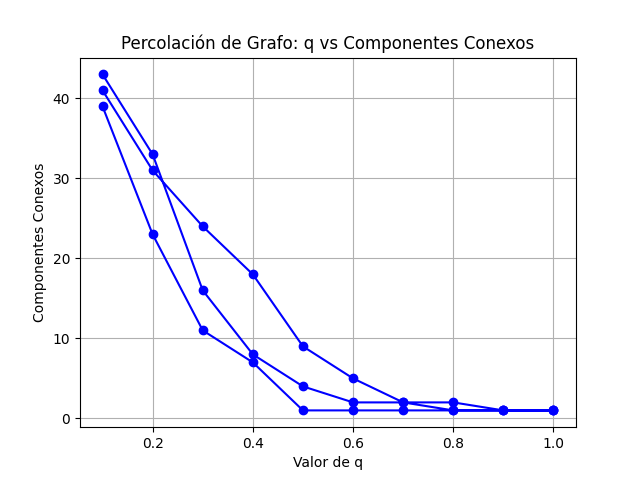
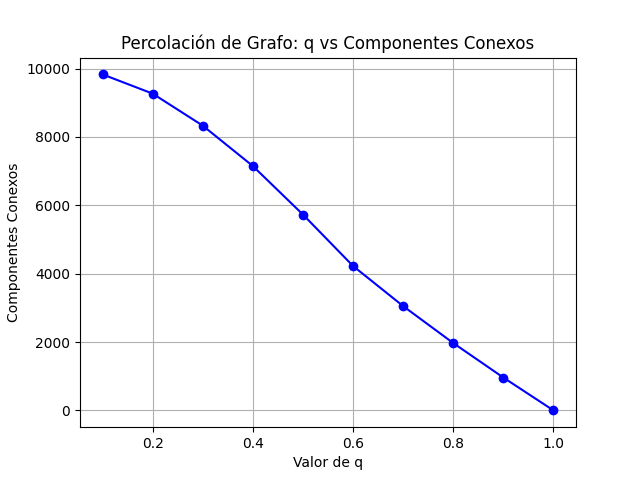
Añadida percolación por nodos

diff --git a/node_percolation.cpp b/node_percolation.cpp
@@ -1,0 +1,124 @@
+#include <iostream>
+#include <vector>
+#include <cstdlib>
+#include <ctime>
+#include <utility>
+#include <fstream>
+#include <sstream>
+#include <unordered_set>
+
+using namespace std;
+
+typedef pair<int, int> Edge;
+
+// Clase para Union-Find (Disjoint Set)
+class UnionFind {
+public:
+    vector<int> parent, size;
+
+    UnionFind(int n) {
+        parent.resize(n);
+        size.resize(n, 1);
+        for (int i = 0; i < n; ++i) parent[i] = i;
+    }
+
+    int find(int u) {
+        if (parent[u] != u)
+            parent[u] = find(parent[u]);
+        return parent[u];
+    }
+
+    void unite(int u, int v) {
+        int rootU = find(u);
+        int rootV = find(v);
+        if (rootU != rootV) {
+            if (size[rootU] < size[rootV]) swap(rootU, rootV);
+            parent[rootV] = rootU;
+            size[rootU] += size[rootV];
+        }
+    }
+
+    int numComponents(int n) {
+        unordered_set<int> unique_roots;
+        for (int i = 0; i < n; ++i) {
+            unique_roots.insert(find(i));
+        }
+        return unique_roots.size();
+    }
+};
+
+// Función para realizar percolación por nodos
+void percolacionPorNodos(int n, vector<Edge>& aristas, double q) {
+    UnionFind uf(n);
+    vector<bool> nodoActivo(n, true);
+    srand(time(0));
+
+    for (int i = 0; i < n; ++i) {
+        if (static_cast<double>(rand()) / RAND_MAX >= q) {
+            nodoActivo[i] = false;
+        }
+    }
+
+    for (const auto& arista : aristas) {
+        int u = arista.first, v = arista.second;
+        if (nodoActivo[u] && nodoActivo[v]) {
+            uf.unite(u, v);
+        }
+    }
+
+    int componentesConexas = uf.numComponents(n);
+    cout << "Componentes conexas después de la percolación por nodos: " << componentesConexas << endl;
+}
+
+// Función para cargar un grafo desde un archivo DIMACS
+vector<Edge> cargarGrafoDIMACS(const string& nombreArchivo, int &numNodos) {
+    ifstream archivo(nombreArchivo);
+    vector<Edge> aristas;
+    string linea;
+
+    if (!archivo.is_open()) {
+        cerr << "No se pudo abrir el archivo." << endl;
+        return aristas;
+    }
+
+    while (getline(archivo, linea)) {
+        if (linea[0] == 'c') continue;
+        if (linea[0] == 'p') {
+            stringstream ss(linea);
+            string aux;
+            ss >> aux >> aux >> numNodos;
+        }
+        else if (linea[0] == 'e') {
+            stringstream ss(linea);
+            char tipo;
+            int u, v;
+            ss >> tipo >> u >> v;
+            aristas.push_back({u - 1, v - 1});  // Ajustar índices para 0-based
+        }
+    }
+
+    archivo.close();
+    return aristas;
+}
+
+// Función principal
+int main() {
+    string nombreArchivo;
+    double q;
+    cout << "Introduce el nombre del archivo DIMACS: ";
+    cin >> nombreArchivo;
+    cout << "Introduce el valor de q: ";
+    cin >> q;
+    
+    int numNodos;
+    vector<Edge> aristas = cargarGrafoDIMACS(nombreArchivo, numNodos);
+
+    if (aristas.empty()) {
+        cerr << "El grafo no se pudo cargar." << endl;
+        return 1;
+    }
+
+    percolacionPorNodos(numNodos, aristas, q);
+
+    return 0;
+}

diff --git a/run_code.py b/run_code.py
@@ -3,15 +3,16 @@ import pandas as pd
 import matplotlib.pyplot as plt
 import os
 
-nombre_archivo_dimacs = "erdos.dimacs"  
+nombre_archivo_dimacs = "malla_cuadrada.dimacs"  
 num_iteraciones = 10                #Numero de veces que se aplica la perocolación con distinta q
 valores_q = [round(i * 0.1, 2) for i in range(1, num_iteraciones + 1)]  
+
 
 resultados = []
 for q in valores_q:
     try:
         #Ejecuta el programa script.cpp con los params de entrada
-        resultado = subprocess.run(["./script"], input=f"{nombre_archivo_dimacs}\n{q}\n", capture_output=True, text=True)
+        resultado = subprocess.run(["./node_percolation"], input=f"{nombre_archivo_dimacs}\n{q}\n", capture_output=True, text=True)
 
         if resultado.returncode == 0:
             # Extraer el número de componentes conexos de la salida
